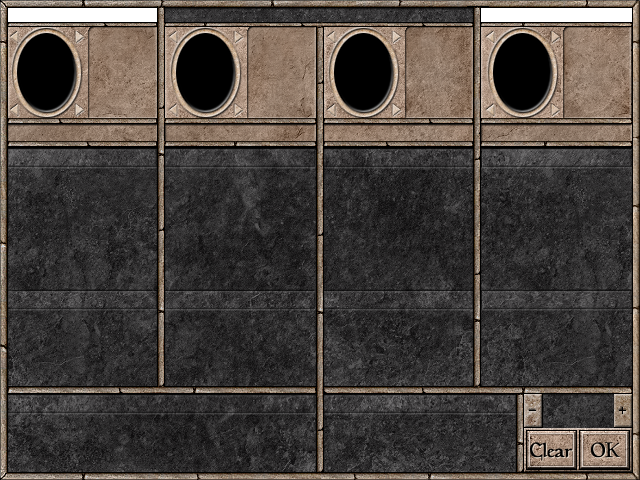
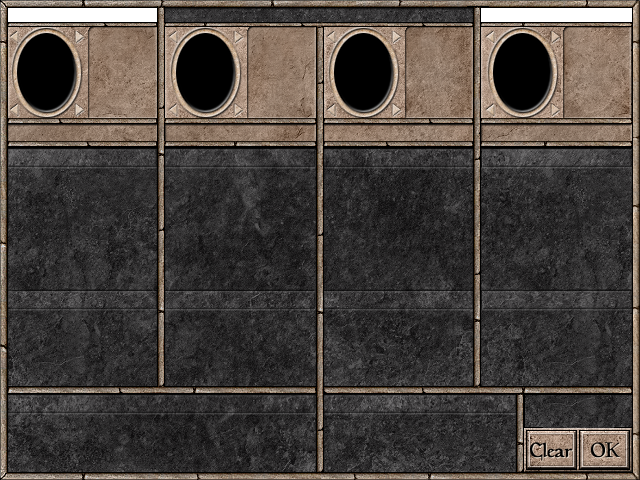
create party, add substract might

Changed region(s): [[0.8125, 0.8125, 1.0, 0.9062]]

diff --git a/Unity/MM7/Assets/Scripts/Business/Race.cs b/Unity/MM7/Assets/Scripts/Business/Race.cs
@@ -35,12 +35,12 @@ namespace Business
 
         // TODO: resistances
 
-        public Func<int, bool, float> GetBonusCostForMight { get; private set; }
-        public Func<int, bool, float> GetBonusCostForIntellect { get; private set; }
-        public Func<int, bool, float> GetBonusCostForPersonality { get; private set; }
-        public Func<int, bool, float> GetBonusCostForEndurance { get; private set; }
-        public Func<int, bool, float> GetBonusCostForAccuracy { get; private set; }
-        public Func<int, bool, float> GetBonusCostForSpeed { get; private set; }
+        public Func<int, bool, BonusCost> GetBonusCostForMight { get; private set; }
+        public Func<int, bool, BonusCost> GetBonusCostForIntellect { get; private set; }
+        public Func<int, bool, BonusCost> GetBonusCostForPersonality { get; private set; }
+        public Func<int, bool, BonusCost> GetBonusCostForEndurance { get; private set; }
+        public Func<int, bool, BonusCost> GetBonusCostForAccuracy { get; private set; }
+        public Func<int, bool, BonusCost> GetBonusCostForSpeed { get; private set; }
 
 
 
@@ -101,57 +101,64 @@ namespace Business
         }
 
         // Normal 9 a 25 de a 1
-        private static Func<int, bool, float> NormalCost = (int currentValue, bool isAdd) =>
+        private static Func<int, bool, BonusCost> NormalCost = (int currentValue, bool isAdd) =>
         {
+            BonusCost cost;
             if (currentValue == 25 && isAdd)
-                return int.MaxValue;
+                cost = new BonusCost(true);
             else if (currentValue == 9 && !isAdd)
-                return int.MaxValue;
+                cost = new BonusCost(true);
             else
-                return isAdd ? 1.0f : -1.0f;
+                cost = new BonusCost(1, 1);
+            return cost;
         };
 
         // Normal 7 a 20 de a 1
-        private static Func<int, bool, float> Normal9Cost = (int currentValue, bool isAdd) =>
+        private static Func<int, bool, BonusCost> Normal9Cost = (int currentValue, bool isAdd) =>
         {
+            BonusCost cost;
             if (currentValue == 20 && isAdd)
-                return int.MaxValue;
+                cost = new BonusCost(true);
             else if (currentValue == 7 && !isAdd)
-                return int.MaxValue;
+                cost = new BonusCost(true);
             else
-                return isAdd ? 1.0f : -1.0f;
+                cost = new BonusCost(1, 1);
+            return cost;
         };
             
         // Attribute raises by 2 for each point spent. Going below initial value adds 2 points to pool. 
-        private static Func<int, bool, float> ProficientCost = (int currentValue, bool isAdd) =>
+        private static Func<int, bool, BonusCost> ProficientCost = (int currentValue, bool isAdd) =>
         {
+            BonusCost cost;
             if (currentValue == 30 && isAdd)
-                return int.MaxValue;
+                cost = new BonusCost(true);
             else if (currentValue == 12 && !isAdd)
-                return int.MaxValue;
+                cost = new BonusCost(true);
             else if (isAdd && currentValue < 14)
-                return 2.0f;
+                cost = new BonusCost(1, 2);
             else if (!isAdd && currentValue <= 14)
-                return -2.0f;
+                cost = new BonusCost(1, 2);
             else
-                return isAdd ? 0.5f : -0.5f;
+                cost = new BonusCost(2, 1);
+            return cost;
         };
 
         // Attribute requires 2 points to raise by one. Going below initial value adds 1/2 point to pool
-        private static Func<int, bool, float> HandicappedCost = (int currentValue, bool isAdd) =>
-            {
-                if (currentValue == 15 && isAdd)
-                    return int.MaxValue;
-                else if (currentValue == 5 && !isAdd)
-                    return int.MaxValue;
-                else if (isAdd && currentValue < 7)
-                    return 0.5f;
-                else if (!isAdd && currentValue <= 7)
-                    return -0.5f;
-                else
-                    return isAdd ? 2.0f : -2.0f;
-            };
-
+        private static Func<int, bool, BonusCost> HandicappedCost = (int currentValue, bool isAdd) =>
+        {
+            BonusCost cost;
+            if (currentValue == 15 && isAdd)
+                cost = new BonusCost(true);
+            else if (currentValue == 5 && !isAdd)
+                cost = new BonusCost(true);
+            else if (isAdd && currentValue < 7)
+                cost = new BonusCost(2, 1);
+            else if (!isAdd && currentValue <= 7)
+                cost = new BonusCost(2, 1);
+            else
+                cost = new BonusCost(1, 2);
+            return cost;
+        };
 
     }
 }

diff --git a/Unity/MM7/Assets/Scripts/CreatePartyChar.cs b/Unity/MM7/Assets/Scripts/CreatePartyChar.cs
@@ -15,8 +15,6 @@ public class CreatePartyChar : MonoBehaviour {
     [SerializeField]
     private int portraitSelected = 1;
 
-    public RaceCode RaceSelected { get; private set; }
-
     [SerializeField]
     private Text raceText;
 
@@ -38,9 +36,11 @@ public class CreatePartyChar : MonoBehaviour {
     [SerializeField]
     private Text speedValue;
 
+    private Race raceSelected;
+
 	// Use this for initialization
 	void Start () {
-		
+        UpdatePortrait();
 	}
 	
 	// Update is called once per frame
@@ -71,24 +71,42 @@ public class CreatePartyChar : MonoBehaviour {
 
     private void UpdateRace() {
         if (portraitSelected <= 8)
-            RaceSelected = RaceCode.Human;
+            raceSelected = Race.Human();
         else if (portraitSelected <= 12)
-            RaceSelected = RaceCode.Elf;
+            raceSelected = Race.Elf();
         else if (portraitSelected <= 16)
-            RaceSelected = RaceCode.Dwarf;
+            raceSelected = Race.Dwarf();
         else if (portraitSelected <= 20)
-            RaceSelected = RaceCode.Goblin;
+            raceSelected = Race.Goblin();
 
-        raceText.text = RaceSelected.ToString();
+        raceText.text = raceSelected.Name;
 
-        var race = Race.FromCode(RaceSelected);
-
-        mightValue.text = race.DefaultMight.ToString();
-        intellectValue.text = race.DefaultIntellect.ToString();
-        personalityValue.text = race.DefaultPersonality.ToString();
-        enduranceValue.text = race.DefaultEndurance.ToString();
-        accuracyValue.text = race.DefaultAccuracy.ToString();
-        speedValue.text = race.DefaultSpeed.ToString();
+        mightValue.text = raceSelected.DefaultMight.ToString();
+        intellectValue.text = raceSelected.DefaultIntellect.ToString();
+        personalityValue.text = raceSelected.DefaultPersonality.ToString();
+        enduranceValue.text = raceSelected.DefaultEndurance.ToString();
+        accuracyValue.text = raceSelected.DefaultAccuracy.ToString();
+        speedValue.text = raceSelected.DefaultSpeed.ToString();
 
     }
+
+    public void AddMight() {
+        var currentValue = int.Parse(mightValue.text);
+        var bonusCost = raceSelected.GetBonusCostForMight(currentValue, true);
+        if (CreateParty.Instance.CreatePartyUseCase.CanUseBonusPoints(bonusCost.BonusChange))
+        {
+            CreateParty.Instance.CreatePartyUseCase.BonusPointsUsed(bonusCost.BonusChange);
+            mightValue.text = (currentValue + bonusCost.AttributeChange).ToString();
+        }
+
+        // TODO: check next
+    }
+
+    public void SubstractMight() {
+        var currentValue = int.Parse(mightValue.text);
+        var bonusCost = raceSelected.GetBonusCostForMight(currentValue, false);
+        CreateParty.Instance.CreatePartyUseCase.BonusPointsUsed(-bonusCost.BonusChange);
+        mightValue.text = (currentValue - bonusCost.AttributeChange).ToString();
+    }
+
 }

diff --git a/Unity/MM7/Assets/Scripts/CreateParty.cs b/Unity/MM7/Assets/Scripts/CreateParty.cs
@@ -2,22 +2,39 @@
 using System.Collections.Generic;
 using UnityEngine;
 using UnityEngine.UI;
+using Business;
 
-public class CreateParty : MonoBehaviour {
+public class CreateParty : Singleton<CreateParty>, CreatePartyViewInterface {
+
+    public CreatePartyUseCase CreatePartyUseCase { get; private set; }
 
     [SerializeField]
-    private CreatePartyChar[] CreatePartyChars;
+    private CreatePartyChar[] createPartyChars;
         
     [SerializeField]
-    private GameObject SkillsContainer;
+    private GameObject skillsContainer;
 
     [SerializeField]
-    private GameObject ProfessionsContainer;
+    private GameObject professionsContainer;
+
+    [SerializeField]
+    private Text bonusPointsText;
+
+    private int _bonusPoints;
+    public int BonusPoints
+    {
+        get { return _bonusPoints; }
+        set {
+            _bonusPoints = value;
+            bonusPointsText.text = value.ToString();
+        }
+    }
 
 	// Use this for initialization
 	void Start () {
         CreateSkills();
         CreateProfessions();
+        CreatePartyUseCase = new CreatePartyUseCase(this);
 	}
 	
 	// Update is called once per frame
@@ -27,7 +44,7 @@ public class CreateParty : MonoBehaviour {
 
     void CreateSkills() {
         List<Text> skillsTexts = new List<Text>();
-        var skill1 = SkillsContainer.GetComponentInChildren<Text>();
+        var skill1 = skillsContainer.GetComponentInChildren<Text>();
         skillsTexts.Add(skill1);
 
         for (int i = 1; i <= 8; i++)
@@ -40,7 +57,7 @@ public class CreateParty : MonoBehaviour {
 
     void CreateProfessions() {
         List<Text> skillsTexts = new List<Text>();
-        var skill1 = ProfessionsContainer.GetComponentInChildren<Text>();
+        var skill1 = professionsContainer.GetComponentInChildren<Text>();
         skillsTexts.Add(skill1);
 
         for (int i = 1; i <= 8; i++)
@@ -50,5 +67,4 @@ public class CreateParty : MonoBehaviour {
             skillsTexts.Add(newSkill);
         }
     }
-        
 }

diff --git a/Unity/MM7/Assets/Scripts/Business/UseCases/CreatePartyUseCase.cs b/Unity/MM7/Assets/Scripts/Business/UseCases/CreatePartyUseCase.cs
@@ -1,0 +1,29 @@
+using System;
+
+namespace Business
+{
+    public class CreatePartyUseCase
+    {
+        private CreatePartyViewInterface view;
+        
+        public int BonusPoints { get; set; }
+        
+        public CreatePartyUseCase(CreatePartyViewInterface view)
+        {
+            this.view = view;
+            BonusPoints = 50;
+            view.BonusPoints = 50;
+        }
+
+        public bool CanUseBonusPoints(int bonusPoints) {
+            return BonusPoints > bonusPoints;
+        }
+
+        public void BonusPointsUsed(int bonusPoints) {
+            BonusPoints -= bonusPoints;
+            view.BonusPoints = BonusPoints;
+        }
+
+    }
+}
+

diff --git a/Unity/MM7/Assets/Scripts/Business/BonusCost.cs b/Unity/MM7/Assets/Scripts/Business/BonusCost.cs
@@ -1,0 +1,35 @@
+using System;
+
+namespace Business
+{
+    public class BonusCost
+    {
+        public int AttributeChange
+        {
+            get;
+            set;
+        }
+
+        public int BonusChange
+        {
+            get;
+            set;
+        }
+
+        public bool Offlimits
+        {
+            get;
+            set;
+        }
+
+        public BonusCost(bool isOfflimits) {
+            Offlimits = isOfflimits;
+        }
+
+        public BonusCost(int attributeChange, int bonusChange) {
+            AttributeChange = attributeChange;
+            BonusChange = bonusChange;
+        }
+    }
+}
+

diff --git a/Unity/MM7/Assets/Scripts/Business/Presenters/CreatePartyViewInterface.cs b/Unity/MM7/Assets/Scripts/Business/Presenters/CreatePartyViewInterface.cs
@@ -1,0 +1,10 @@
+using System;
+
+namespace Business
+{
+    public interface CreatePartyViewInterface
+    {
+        int BonusPoints { get; set; }
+    }
+}
+
